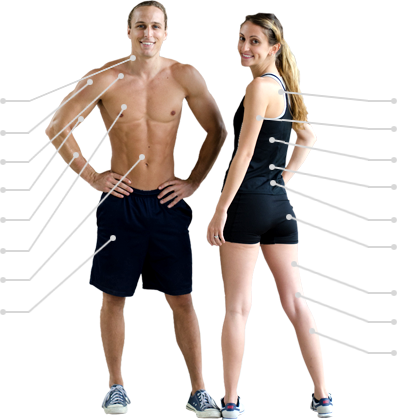
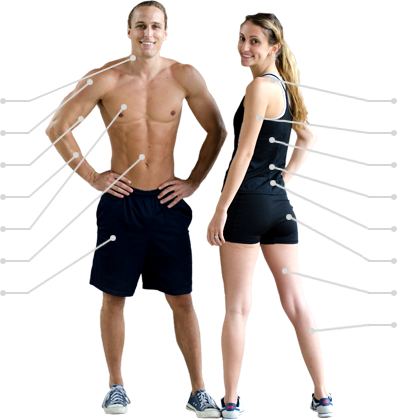
修改了锻炼的部位指定视频块

diff --git a/aijianmei_back/apps/index/Tpl/default/Train/index.html b/aijianmei_back/apps/index/Tpl/default/Train/index.html
@@ -159,24 +159,22 @@
                         <div class="pertinence">
                             <ul class="pt_part_1">
                                 <li><a href="/index.php?app=index&mod=Train&act=videoList&id=54">颈部</a></li>
-                                <li><a href="/index.php?app=index&mod=Train&act=videoList&id=55">肩膀<span>(美洲)</span></a></li>
-                                <li><a href="/index.php?app=index&mod=Train&act=videoList&id=56">陷阱<span>(斜方肌)</span></a></li>
-                                <li><a href="/index.php?app=index&mod=Train&act=videoList&id=57">二头肌<span>(肱二头肌)</span></a></li>
-                                <li><a href="/index.php?app=index&mod=Train&act=videoList&id=58">前臂<span>(肱)</span></a></li>
-                                <li><a href="/index.php?app=index&mod=Train&act=videoList&id=59">胸部<span>(胸大肌)</span></a></li>
-                                <li><a href="/index.php?app=index&mod=Train&act=videoList&id=60">防抱死制动系统<span>(腹直肌)</span></a></li>
-                                <li><a href="/index.php?app=index&mod=Train&act=videoList&id=61">四边形<span>(四头肌)</span></a></li>
+                                <li><a href="/index.php?app=index&mod=Train&act=videoList&id=55">肩膀</a></li>
+                                <li><a href="/index.php?app=index&mod=Train&act=videoList&id=57">二头肌</a></li>
+                                <li><a href="/index.php?app=index&mod=Train&act=videoList&id=58">前臂</a></li>
+                                <li><a href="/index.php?app=index&mod=Train&act=videoList&id=59">胸大肌</a></li>
+                                <li><a href="/index.php?app=index&mod=Train&act=videoList&id=60">腹直肌</a></li>
+                                <li><a href="/index.php?app=index&mod=Train&act=videoList&id=61">肱四头肌</a></li>
                             </ul>
                             <ul class="pt_part_2">
-                                <li><a href="/index.php?app=index&mod=Train&act=videoList&id=62">陷阱<span>(斜方肌)</span></a></li>
-                                <li><a href="/index.php?app=index&mod=Train&act=videoList&id=63">肱三头肌<span>(肱三头)</span></a></li>
-                                <li><a href="/index.php?app=index&mod=Train&act=videoList&id=64">拉特<span>(背阔肌)</span></a></li>
-                                <li><a href="/index.php?app=index&mod=Train&act=videoList&id=65">回到中间<span>(菱形)</span></a></li>
-                                <li><a href="/index.php?app=index&mod=Train&act=videoList&id=66">下背部<span></span></a></li>
-                                <li><a href="/index.php?app=index&mod=Train&act=videoList&id=67">臀部<span>(臀大肌、臀中肌)</span></a></li>
-                                <li class="special"><a href="/index.php?app=index&mod=Train&act=videoList&id=68">四边形<span>(四头肌)</span></a></li>
-                                <li><a href="/index.php?app=index&mod=Train&act=videoList&id=69">拉筋<span>(股二头肌)</span></a></li>
-                                <li><a href="/index.php?app=index&mod=Train&act=videoList&id=70">犊牛<span>(腓肠肌)</span></a></li>
+                                <li><a href="/index.php?app=index&mod=Train&act=videoList&id=62">斜方肌</a></li>
+                                <li><a href="/index.php?app=index&mod=Train&act=videoList&id=63">肱三头肌</a></li>
+                                <li><a href="/index.php?app=index&mod=Train&act=videoList&id=64">背阔肌</a></li>
+                                <li><a href="/index.php?app=index&mod=Train&act=videoList&id=65">中背部</a></li>
+                                <li><a href="/index.php?app=index&mod=Train&act=videoList&id=66">下背部</a></li>
+                                <li><a href="/index.php?app=index&mod=Train&act=videoList&id=67">臀部</a></li>
+                                <li class="special"><a href="/index.php?app=index&mod=Train&act=videoList&id=68">腿筋</a></li>
+                                <li><a href="/index.php?app=index&mod=Train&act=videoList&id=69">腓肠肌</a></li>
                             </ul>
                         </div>
                     </div>

diff --git a/aijianmei_back/apps/index/Tpl/default/Public/css/training.css b/aijianmei_back/apps/index/Tpl/default/Public/css/training.css
@@ -215,27 +215,25 @@
 			}
 					.pt_part_1{
 						position: absolute;
-						top: 85px;
-						left: -154px;
+						top: 90px;
+						left: -65px;
 					}
 					.pt_part_1 li{
-						height:30px;
-						line-height:30px;
+						height:31px;
+						line-height:31px;
 						text-align: right;
 					}
 					.pt_part_2{
 						position: absolute;
 						width: 165px;
-						top: 88px;
+						top: 84px;
 						left: 401px;
 					}
 					.pt_part_2 li{
-						height:30px;
-						line-height:30px;
-						margin-bottom:1px;
+						height:32px;
+						line-height:32px;
 						text-align: left;
 					}
-					.special{margin-top: 29px;}
 /***********************footer开始*************************/
 	#footer{background: url(../images/training/workout_54.jpg)}
 
